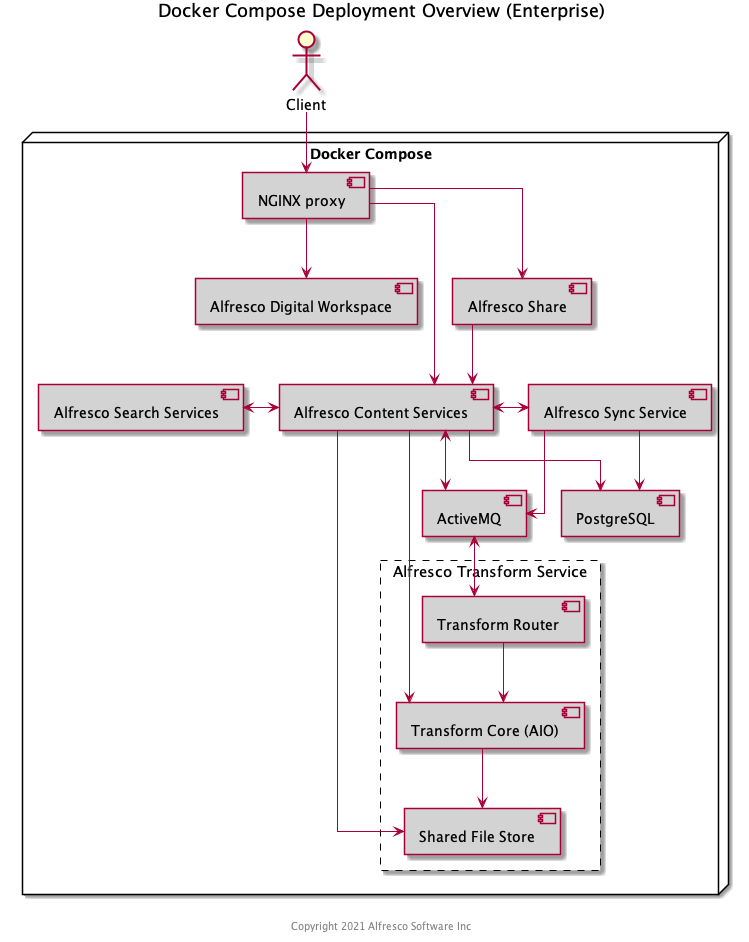
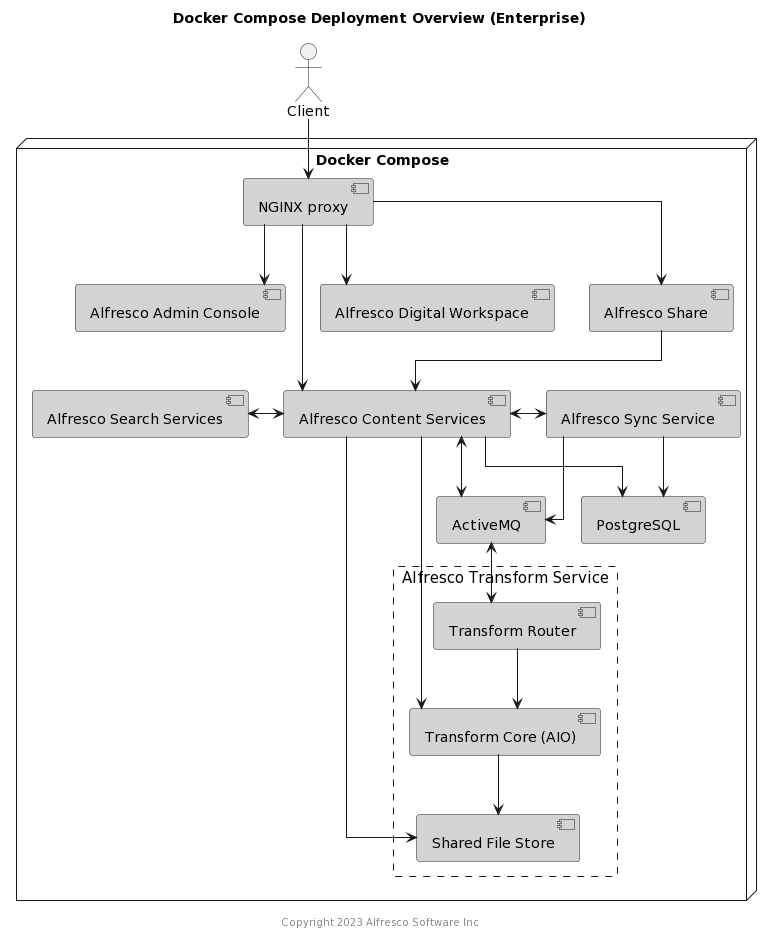
OPSEXP-1932 Update architecture image with Admin Console (#878)

Changed region(s): [[0.0, 0.0, 0.9826, 0.9925]]

diff --git a/README.md b/README.md
@@ -143,3 +143,15 @@ git push origin vx.x.x-SNAPSHOT --force
 ```
 
 Once the tagged workflow is successful, the release process has completed.
+
+## How to update workflow diagrams of Alfresco latest version
+
+* Go to the `docs/docker-compose/diagrams` and/or `docs/helm/diagrams` folders of the repository and there you will find 2 plantuml source files and their PNG diagram files.
+* Update the plantuml(.puml) files for enterprise/community edition with latest changes as required.
+* Once you are done with the changes, you can generate the diagrams with 2 ways.
+
+1. You can update the diagrams with cli method by running the below command. You need to have Java and Plantuml installed on your machine.
+ `java -jar plantuml.jar filename`
+2. The other way to generate the diagrams is via official plantuml website. Go to the below url and paste your puml code and click on submit.
+ `http://www.plantuml.com/plantuml/uml/SyfFKj2rKt3CoKnELR1Io4ZDoSa70000`
+  
